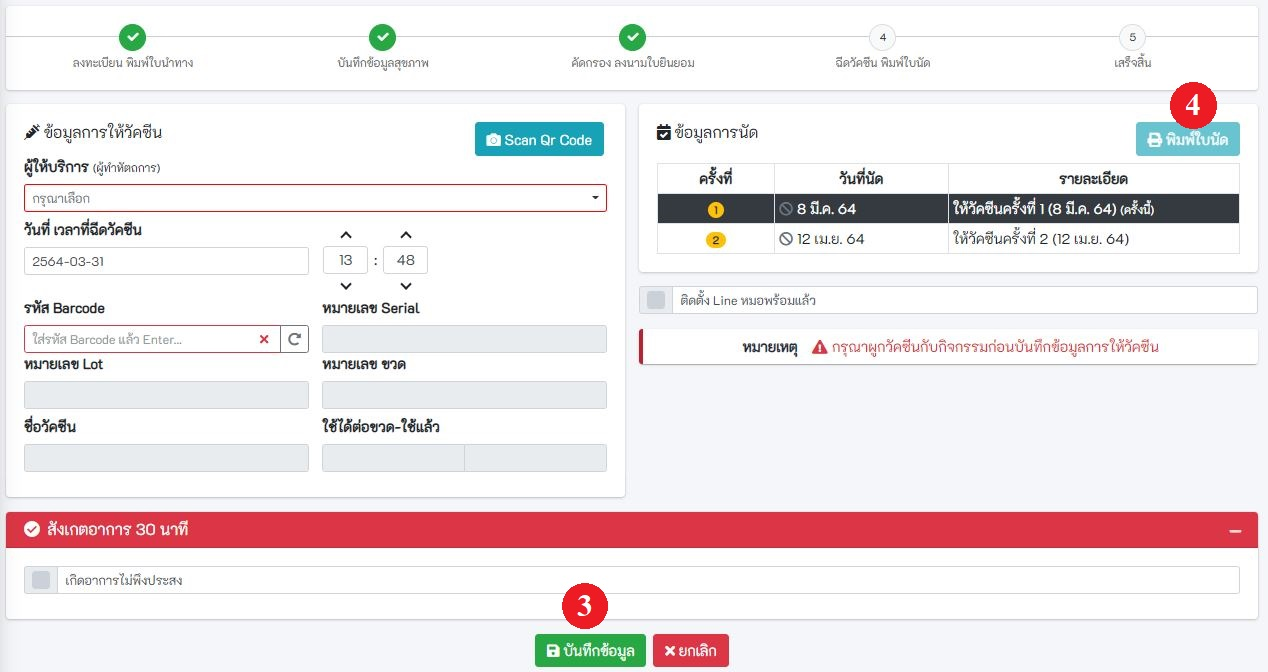
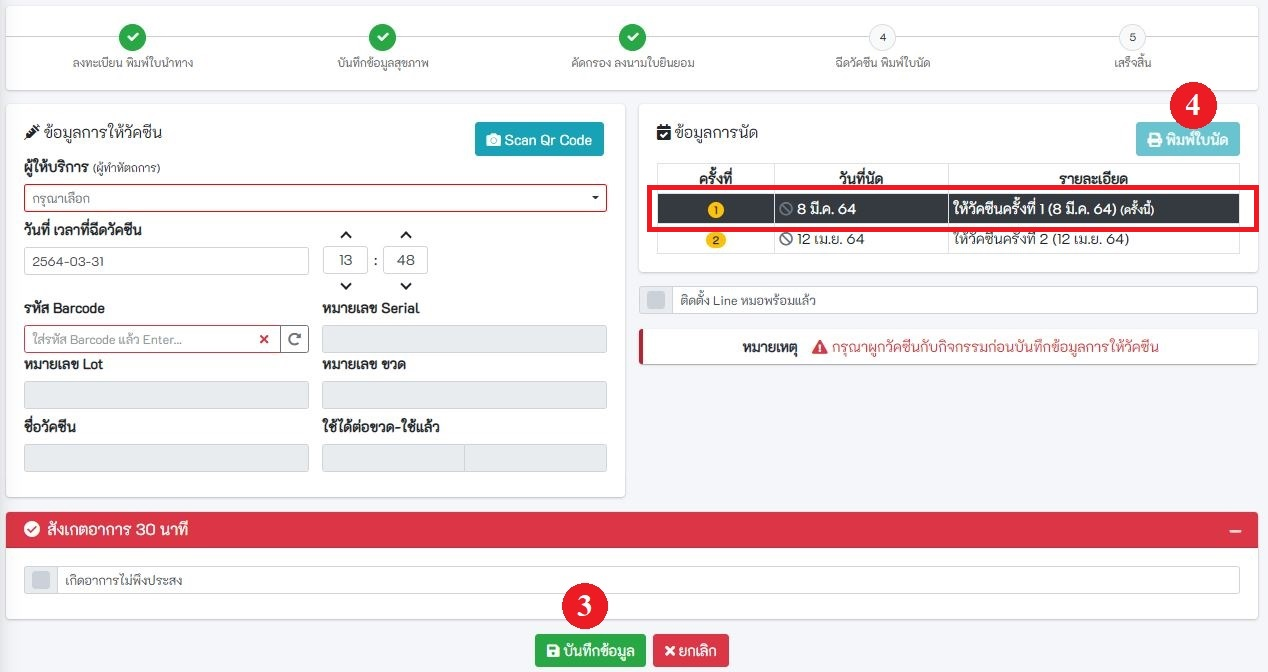
edit document by natanon

Changed region(s): [[0.4921, 0.25, 1.0, 0.3438]]

diff --git a/docs/user/prepare-work.md b/docs/user/prepare-work.md
@@ -7,7 +7,7 @@ title: 5. เตรียมปฏิบัติงาน
 
 
 ## 5.1 แผนปฏิบัติงาน
-![](./img/plan-menu.png)</br>
+![](./img/plan-menu.png)
 
 แผนปฏิบัติงาน คือ แผนให้บริการผู้รับการฉีดวัคซีน ที่ต้องสร้างก่อนออกปฏิบัติงาน 
 จุดประสงค์หลักเพื่อ ออกใบนัดรับวัคซีนครั้งต่อไป(ในแผนจะให้กำหนดวันรับวัคซีนครั้งที่ 2 กรณีต้องฉีด 2 เข็ม)และ ใช้ตรวจสอบว่าผู้รับวัคซีนได้รับวัคซีนครบตามแผนหรือไม่( เช่นsinovacต้องรับ 2 เข็ม
@@ -55,7 +55,7 @@ title: 5. เตรียมปฏิบัติงาน
 ### 5.2.2 กรณีเพิ่มผู้ใช้งานจากโรงพยาบาล/สถานพยาบาลอื่น
 - ระบุเงื่อนไขในการค้นหา เช่น เลขบัตรประจำตัวประชาชน รหัสสถานพยาบาล ขื่อ นามสกุล หลังจากนั้นกดปุ่ม **ค้นหา**
 - คลิกที่ checkbox เพื่อเลือกผู้ปฏิบัติงาน หลังจากนั้นกดปุ่ม บันทึก
-
+</br>
 ![](./img/user-plan-4-difference-hoscode.png)
 
 ## 5.3 เมนูเพิ่มข้อมูลวัคซีน
@@ -63,47 +63,44 @@ title: 5. เตรียมปฏิบัติงาน
 ![](./img/add-vaccine-1.png)
 
 - **การค้นหาข้อมูลวัคซีน** 
-  - **ระบุเงื่อนไขที่ต้องการค้นหา** เช่น ชื่อวัคซีน Serial No. Lot No. จากนั้นคลิกที่ปุ่ม ค้นหา 
+  -**ระบุเงื่อนไขที่ต้องการค้นหา** เช่น ชื่อวัคซีน Serial No. Lot No. จากนั้นคลิกที่ปุ่ม ค้นหา 
 
 - **เพิ่มข้อมูลวัคซีนรายขวด** ตามวงกลมแดงหมายเลข 2
   ![](./img/add-vaccine-1_2.png)
-  - **ระบุข้อมูลให้ถูกต้อง และครบถ้วน โดยเฉพาะช่องสีแดง**   
-  - **หรือ กดปุ่ม Scan** ตามวงกลมแดงหมายเลข 5 เพื่อทำการสแกน QR Code , Barcode , Data Matrix ที่ระบุข้างกล่อง ระบบจะทำการอ่านข้อมูล และเติมลงในช่องต่าง ๆ
-  - ตรวจสอบจำนวนการใช้ต่อ 1 ขวด ให้ถูกต้อง ตามวงกลมแดงหมายเลข 3 เพื่อให้ระบบทราบว่าวัคซีน 1 รหัสใช้ได้กี่ครั้ง
-  - **เมื่อเสร็จแล้ว กดปุ่ม บันทึก** ตามวงกลมแดงหมายเลข 4
+  -**ระบุข้อมูลให้ถูกต้อง และครบถ้วน โดยเฉพาะช่องสีแดง**</Br>   
+  -**หรือ กดปุ่ม Scan** ตามวงกลมแดงหมายเลข 5 เพื่อทำการสแกน QR Code , Barcode , Data Matrix ที่ระบุข้างกล่อง ระบบจะทำการอ่านข้อมูล และเติมลงในช่องต่าง ๆ</Br></Br>
+  -ตรวจสอบจำนวนการใช้ต่อ 1 ขวด ให้ถูกต้อง ตามวงกลมแดงหมายเลข 3 เพื่อให้ระบบทราบว่าวัคซีน 1 รหัสใช้ได้กี่ครั้ง</Br></Br>
+  -**เมื่อเสร็จแล้ว กดปุ่ม บันทึก** ตามวงกลมแดงหมายเลข 4</Br>
   ![](./img/add-vaccine-1_3.jpg)
   </Br></Br>
 
 - **เพิ่มข้อมูลวัคซีนรายกล่อง** ตามรูปหมายเลข 1
   ![](./img/add-vaccine-2_1.png)
-  - **ระบุข้อมูลให้ถูกต้อง และครบถ้วน โดยเฉพาะช่องสีแดง** 
-  - **หรือ กดปุ่ม Scan** ตามวงกลมแดงหมายเลข 2 เพื่อทำการสแกน QR Code , Barcode , Data Matrix ที่ระบุข้างกล่อง ระบบจะทำการอ่านข้อมูล และเติมลงในช่องต่าง ๆ 
-  - ระบบจะนำ จำนวนขวดต่อกล่อง ไปคำนวณสร้างรหัสให้เอง เช่น 10 ขวดต่อกล่อง ระบบจะสร้างรหัสวัคซีน ให้ 10 รหัส
-  - ตรวจสอบจำนวนการใช้ต่อ 1 ขวด ให้ถูกต้อง ตามวงกลมแดงหมายเลข 3 เพื่อให้ระบบทราบว่าวัคซีน 1 รหัสใช้ได้กี่ครั้ง
-  - **เมื่อเสร็จแล้ว กดปุ่ม บันทึก** ตามวงกลมแดงหมายเลข 4
+  -**ระบุข้อมูลให้ถูกต้อง และครบถ้วน โดยเฉพาะช่องสีแดง** 
+  -**หรือ กดปุ่ม Scan** ตามวงกลมแดงหมายเลข 2 เพื่อทำการสแกน QR Code , Barcode , Data Matrix ที่ระบุข้างกล่อง ระบบจะทำการอ่านข้อมูล และเติมลงในช่องต่าง ๆ </Br></Br> 
+  -ระบบจะนำ จำนวนขวดต่อกล่อง ไปคำนวณสร้างรหัสให้เอง เช่น 10 ขวดต่อกล่อง ระบบจะสร้างรหัสวัคซีน ให้ 10 รหัส </Br></Br>
+  -ตรวจสอบจำนวนการใช้ต่อ 1 ขวด ให้ถูกต้อง ตามวงกลมแดงหมายเลข 3 เพื่อให้ระบบทราบว่าวัคซีน 1 </Br></Br>รหัสใช้ได้กี่ครั้ง
+  -**เมื่อเสร็จแล้ว กดปุ่ม บันทึก** ตามวงกลมแดงหมายเลข 4</Br>
   ![](./img/add-vaccine-2_2.jpg)
   </Br></Br>
 
 - **การแก้ไขข้อมูลวัคซีนที่ฉีดไปแล้ว** </Br>
-การแก้ไขวัคซีนที่ฉีดไปแล้ว มีความเสี่ยงผิดพลาดจากขั้นตอน ลบข้อมูลออกจากระบบ MOPH IC ให้ดำเนินการด้วยความระมัดระวังและการแก้ไขอาจกระทบกับระบบหมอพร้อมของผู้รับวัคซีนรายนั้นได้ เนื่องจากเป็นการลบข้อมูล แล้วส่งไปยังระบบ MOPH IC ใหม่ </Br>
-ก่อนจะแก้ไขได้ต้องทราบว่า barcode ของวัคซีนที่จะแก้ไขนั้น ฉีดให้ใคร และต้องดำเนินการโดยเจ้าหน้าที่ ที่บันทึกผู้รับวัคซีนรายนั้นเท่านั้น เพราะผู้อื่นไม่สามารถกดลบตามขั้นตอนที่ 3 ได้ เมื่อทราบแล้วให้ดำเนินการตามขั้นตอนดังนี้
+การแก้ไขวัคซีนที่ฉีดไปแล้ว แล้วมีข้อมูลวัคซีนผิดพลาดเล็กน้อยเช่น พิมพ์ serial หรือ Lot ผิด พิมพ์ตกไป1ตัวอักษร เป็นต้น การแก้ไขมีความเสี่ยงผิดพลาดจากขั้นตอน ลบข้อมูลออกจากระบบ MOPH IC ให้ตรวจสอบข้อมูลให้ถูกต้อง และการแก้ไขอาจกระทบกับระบบหมอพร้อมของผู้รับวัคซีนรายนั้นได้</Br>
+ก่อนจะแก้ไขได้ต้องทราบว่า barcode ของวัคซีนที่จะแก้ไขนั้น ฉีดให้ใคร และต้องดำเนินการโดยเจ้าหน้าที่ ที่บันทึกผู้รับวัคซีนรายนั้นเท่านั้น เพราะผู้อื่นไม่สามารถกดลบตามขั้นตอนที่ 2 ได้ เมื่อทราบแล้วให้ดำเนินการตามขั้นตอนดังนี้
 จากรูปตัวอย่าง ต้องการแก้ วัคซีน barcode 0000000066 สังเกตุว่าจะขึ้นสถานะใช้งานแล้ว
   ![](./img/editvaccine01.jpg)</Br></Br>
--ขั้นตอนที่ 1 ลบข้อมูลการฉีดด้วยวัคซีนที่ต้องการแก้ไขออกจากระบบ [MOPH Immunization Center Dashboard](https://cvp1.moph.go.th/dashboard/)(MOPH IC) จากนั้นเข้าเมนูออกปฏิบัติงาน->รายการลงทะเบียน ค้นหาผู้รับวัคซีนที่ได้รับวัคซีนที่ต้องการแก้ไข </Br></Br>
--ขั้นตอนที่ 2 กดรูปดวงตาตามวงกลมแดงหมายเลข 1 เพื่อตรวจสอบว่าข้อมูลลบออกจาก MOPH IC หรือยัง 
-  ![](./img/editvaccine02.jpg)</Br></Br>
-
-  หากเป็นการฉีดครั้งแรก ข้อมูลต้องขึ้นตามรูปตัวอย่าง แสดงว่าลบข้อมูลออกจาก MOPH IC แล้ว 
-  ![](./img/editvaccine03.jpg)</Br></Br>
-  -ขั้นตอนที่ 3 กดปุ่มลบ ตามวงกลมแดงหมายเลข 2
+  -ขั้นตอนที่ 1 เข้าเมนูออกปฏิบัติงาน->รายการลงทะเบียน ค้นหาผู้รับวัคซีนที่ได้รับวัคซีนที่ต้องการแก้ไข </Br></Br>
+  -ขั้นตอนที่ 2 กดปุ่มลบ ตามวงกลมแดงหมายเลข 2
   ![](./img/editvaccine04.jpg)</Br></Br>
-  -ขั้นตอนที่ 4 กดปุ่มใช่ เพื่อยีนยันการลบ
+  -ขั้นตอนที่ 3 กดปุ่มใช่ เพื่อยีนยันการลบ
   ![](./img/editvaccine05.jpg)</Br></Br>
-  -ขั้นตอนที่ 5 เลือกเมนู เตรียมปฏิบัติงาน->เพิ่มข้อมูลวัคซีน จะพบว่า วัคซีน Barcode 0000000066 สามารถแก้ไขได้แล้ว ให้กดแก้ไขได้เลย
+  -ขั้นตอนที่ 4 เลือกเมนู เตรียมปฏิบัติงาน->เพิ่มข้อมูลวัคซีน จะพบว่า วัคซีน Barcode 0000000066 สามารถแก้ไขได้แล้ว ให้กดแก้ไขได้เลย
   ![](./img/editvaccine06.jpg)</Br></Br>
+  -ขั้นตอนที่ 5 บันทึกข้อมูลการให้วัคซีนอีกครั้งตั้งแต่ ลงทะเบียน จนถึงอนุญาตให้กลับบ้านได้</Br></Br>
+  -ขั้นตอนที่ 6 ลบข้อมูลการฉีดด้วยวัคซีนที่ไม่ถูกต้องออกจากระบบ [MOPH Immunization Center Dashboard](https://cvp1.moph.go.th/dashboard/)(MOPH IC) ให้เหลือแต่ข้อมูลที่ถูกต้อง
 
 ## 5.4 ผูกวัคซีนกับกิจกรรม
-
+ผูกวัคซีนกับกิจกรรม หน่วยงานต้องนำวัคซีนจากการเพิ่มข้อมูลวัคซีน มา ผูกกับกิจกรรมการให้วัคซีนก่อน เพื่อให้สามารถบันทึกการให้วัคซีนได้ หากไม่ได้ผูกวัคซีนกับกิจกรรมการให้วัคซีนนั้น เมื่อนำไปบันทึกการให้วัคซีน จะขึ้นแจ้งว่า "ผิดพลาด ไม่พบวัคซีนรหัสนี้" การผูกวัคซีน เปรียบเหมือนการเบิกวัคซีนจากคลังมาเพื่อบันทึก ดังนั้นหากวัคซีนใดไม่ได้ใช้ต้องลบออกจากการผูกด้วย
 
 ![](./img/vaccine-join-1.png)
 - **เปลี่ยนกิจกรรม** ตามรูปหมายเลข 1 หากไม่ใช่กิจกรรมที่ต้องการผูกกับวัคซีน
@@ -120,11 +117,11 @@ title: 5. เตรียมปฏิบัติงาน
 
 - แสดงวัคซีนที่เลือก หลังจากนั้นกดปุ่ม **บันทึก** ตามรูปหมายเลข 6
   ![](./img/vaccine-activity6.png)
-- **การลบการผูกวัคซีน** ให้กดปุ่ม "ลบ" ในกรอบตามวงกลมแดงหมายเลข 7 หลังจากนั้นกดปุ่ม **บันทึก** วงกลมแดงหมายเลข 6 วัคซีนที่ลบจากการผูกจะสามารถนำไปผูกกับเข็มของแผนอื่นได้
+- **การลบการผูกวัคซีน** ให้กดปุ่ม "ลบ" ในกรอบตามวงกลมแดงหมายเลข 7 ข้อควรระวัง ให้สังเกตุกรอบสีแดง การลบการผูกวัคซีนต้องอยู่ในหัวข้อนี้ หลังจากนั้นกดปุ่ม **บันทึก** วงกลมแดงหมายเลข 6 วัคซีนที่ลบจากการผูกจะสามารถนำไปผูกกับเข็มของแผนอื่นได้
 
 ## 5.5 พิมพ์ QR Code วัคซีน
-
-
+- เป็นการพิมพ์รหัสวัคซีน ที่ได้ผูกไว้กับกิจกรรมการให้วัคซีน( เข็ม1 หรือ 2) ให้ออกมาเป็น Barcode เพื่อสะดวกในการใช้งาน ให้หน่วยงานบริหารจัดการเอง เรื่องจะติดไว้ที่ใดบ้าง เพื่อให้สะดวกต่อการทำงาน
+ 
 ![](./img/qrcode-1.png)
 ![](./img/qrcode-2.png)
 ![](./img/qrcode-3.png)

diff --git a/docs/user/working.md b/docs/user/working.md
@@ -26,8 +26,13 @@ title: 6. ออกปฏิบัติงาน
   - เมื่อกดปุ่มบันทึก หน้าจอจะแสดงปุ่ม **พิมพ์ใบลงทะเบียน ให้กดปุ่มพิมพ์ใบลงทะเบียน** เพื่อปริ้นใบลงทะเบียนให้กับผู้รับบริการ
   ![](./img/regis02.jpg)
 
+  
+
 ## 6.2 รายการลงทะเบียน
-![](./img/register-list-1.png)
+รายการลงทะเบียน เป็นเมนู แสดงจำนวนผู้ลงทะเบียนในกิจกรรมนั้น และแสดงว่าผู้รับวัคซีนดำเนินการถึงขั้นตอนใด หากเป็น user ที่บันทึกผู้รับการฉีดรายนั้นจะสามารถ ลบ(รูปถังขยะ) ตามวงกลมแดงหมายเลข 1 และ แก้ไขข้อมูลผู้รับการฉีด(รูปปากกา) ตามวงกลมแดงหมายเลข 2  หากไม่มีเครื่องหมาย ลบ และแก้ไข แสดงว่าuser อื่นเป็นผู้บันทึก ให้นำเม้าไปวางบริเวณนั้น จะเห็นชื่อผู้บันทึก
+
+<b>กรณีขึ้นแทบสีแดงทั้งหมด แต่บันทึกผู้รับวัคซีนรายนั้นเสร็จสิ้นไปแล้ว</b> ให้ค้นหา จากเลขบัตรประชาชนคนนั้น ในหน้ารายการลงทะเบียน ส่วนใหญ่จะพบว่ามี 2 รายการ รายการที่มีเครื่องหมายถูกเขียวทั้งหมด และรายการที่ 2 กากบาทแดงทั้งหมดหรือบางส่วน ให้ลบ รายการที่ขึ้นกากบาทแดงออก เหลือแต่รายการที่บันทึกเสร็จสิ้นแล้ว
+![](./img/register-list-1.jpg)
 
 ## 6.3 คัดกรองก่อนให้วัคซีน 
 
@@ -44,19 +49,35 @@ title: 6. ออกปฏิบัติงาน
 ![](./img/concense-form-1.png)
 
 ## 6.4 การให้วัคซีน
+การให้วัคซีน เข็ม 1 และ 2 นั้น ขั้นตอนดำเนินการ ให้ดู[หัวข้อ 1.1 ขั้นตอนการใช้งาน](login.md) ตามคู่มือนี้ 
+หัวข้อ 6.4 นี้ อธิบายความแตกต่าง ของเมนูการให้วัคซีน ของเข็ม 1 และ 2 ของโปรแกรมเท่านั้น ไม่ใช่ขั้นตอนทั้งหมด หากระหว่างบันทึก Barcode ปรากฏข้อความ <b>"ผิดพลาด ไม่พบวัคซีนรหัสนี้"</b>แสดงว่าไม่ได้ผูกวัคซีนกับกิจกรรมให้ทำการผูกก่อน กรุณาดู [หัวข้อ 5.4 ผูกวัคซีนกับกิจกรรม](prepare-work.md#_5-4-ผูกวัคซีนกับกิจกรรม)
 
-### 6.4.1 ค้นหา
-- ค้นหาโดยกรอกเลขบัตรประจำตัวประชาชน หรือ
-- ใช้เครื่องอ่านบัตรประจำตัวประชาชนแบบ Smartcard คลิกที่ checkbox อ่านบัตร
+### 6.4.1 การให้วัคซีนเข็ม 1
+- 6.4.1.1 ค้นหา</Br>
+-ค้นหาโดยกรอกเลขบัตรประจำตัวประชาชน หรือ</Br>
+-ใช้เครื่องอ่านบัตรประจำตัวประชาชนแบบ Smartcard คลิกที่ checkbox อ่านบัตร</Br>
 
 ![](./img/vaccine-operation-1.png)
-### 6.4.2 กรอกข้อมูล
-- ระบุข้อมูลให้ถูกต้อง ครบถ้วน **โดยเฉพาะช่องสีแดง** หรือ กดปุ่ม Scan QR Code ระบบจะเติมข้อมูลที่ได้จาก QR Code ลงในช่องข้อมูล หลังจากนั้นกดปุ่ม **บันทึก**
+- 6.4.1.2 กรอกข้อมูล</Br>
+-ให้สังเกตุ ข้อมูลการนัด ตามกรอบสีแดงว่าอยู่ในครั้งที่ 1 จากนั้นระบุข้อมูลให้ถูกต้อง ครบถ้วน </Br>**โดยเฉพาะช่องสีแดง** หรือ กดปุ่ม Scan QR Code ระบบจะเติมข้อมูลที่ได้จาก QR Code ลงในช่องข้อมูล หลังจากนั้นกดปุ่ม **บันทึก**</Br>
 
 ![](./img/vaccine-operation-2.jpg)
 
-### 6.4.3 พิมพ์ใบนัด
+- 6.4.1.3 พิมพ์ใบนัด
 ![](./img/vaccine-appointment-1.png)
+
+### 6.4.2 การให้วัคซีนเข็ม 2
+- 6.4.2.1 ค้นหา</Br>
+-ค้นหาโดยกรอกเลขบัตรประจำตัวประชาชน หรือ</Br>
+-ใช้เครื่องอ่านบัตรประจำตัวประชาชนแบบ Smartcard คลิกที่ checkbox อ่านบัตร</Br>
+
+![](./img/vaccine-operation-1.png)
+- 6.4.2.2 กรอกข้อมูล</Br>
+-ให้สังเกตุ ตามกรอบสีแดงวงกลมหมายเลข 3 ว่าอยู่ในครั้งที่ 2 และมีเครื่องหมายถูกสีเขียวหน้าครั้งที่ 1 หรือไม่ หากไม่ใช่ แสดงว่า คนนี้มาไม่ตรงนัด [กรุณาดูหัวข้อ 1.1 ขั้นตอนการใช้งาน เรื่องการให้วัคซีน เข็ม 2 กรณีมาไม่ตรงวันนัด](login.md) หากมีเครื่องหมายถูกหน้าครั้งที่ 1 แล้ว ให้ระบุข้อมูลการให้วัคซีนให้ถูกต้อง ครบถ้วน **โดยเฉพาะช่องสีแดง** หรือ กดปุ่ม Scan QR Code ระบบจะเติมข้อมูลที่ได้จาก QR Code ลงในช่องข้อมูล หลังจากนั้นกดปุ่ม **บันทึก** ตามวงกลมแดงหมายเลข 4</Br>
+
+![](./img/vaccine-operation-22.jpg)
+
+
 
 ## 6.5 จุดตรวจสอบก่อนกลับบ้าน
 - หลังจากฉีดแล้ว 30 นาที หากมีอาการไม่พึงประสงค์ ให้ติ๊กถูก ตามวงกลมหมายเลข 1 จากนั้น บันทึกข้อมูล ตามปุ่ม วงกลมแดงหมายเลข 2 หากไม่มีอาการให้กดปุ่ม วงกลมแดงหมายเลข 2 ได้เลย จากนั้น เลือกอนุญาติให้กลับบ้านได้ ตามวงกลมแดงหมาย 3 ปุ่มนี้จะส่งข้อมูลการให้วัคซีนครั้งนี้ ไปยังระบบ ( MOPH IC )  [MOPH Immunization Center Dashboard](https://cvp1.moph.go.th/dashboard/)
@@ -64,18 +85,26 @@ title: 6. ออกปฏิบัติงาน
 - หากบันทึกการให้วัคซีน 2 เข็มครบถ้วนแล้ว จะปรากฏ ปุ่มพิมพ์ใบรับรองการฉีดวัคซีน ตามวงกลมแดงหมาย 4
 หากไม่ปรากฏ ปุ่มพิมพ์ใบรับรองการฉีดวัคซีน ให้ตรวจสอบว่า ในกรอบวงกลมแดงหมายเลข 5 ขึ้นเครื่องหมายถูกสีเขียว ทั้ง 2 ครั้งหรือไม่ หากไม่ขึ้นตามรูปตัวอย่าง ให้ตรวจสอบว่าบันทึก เข็มที่ 2 ผิดแผนหรือไม่
 **เข็มที่ 1 และเข็มที่ 2 ที่บันทึกให้ผู้ฉีดต้องอยู่ในแผนเดียวกันเท่านั้น**
-![](./img/check-before-gohome-2.jpg)
+![](./img/check-before-gohome-2.jpg)</Br>
+
+รูปตัวอย่างใบรับรอง
+![](./img/certificate.jpg)</Br>
+
 
 ## 6.6 ติดตามอาการ
 ![](./img/follow-1.png)
 - บันทึกติดตามอาการหลังจากได้รับวัคซีน 7 วัน หรือ 30 วัน
 ![](./img/follow-2.png)
 
-## 6.6 ส่งข้อมูลเข้า IC
-- เป็นเมนูสำหรับ ส่งข้อมูลการการให้วัคซีนเข้าระบบ ( MOPH IC )  [MOPH Immunization Center Dashboard](https://cvp1.moph.go.th/dashboard/) เมื่อมีการแก้ไขการให้วัคซีน หรือต้องการ update ข้อมูลการให้วัคซีน โดยสามารถเลือกรายคน ในกรอบวงกลมแดงหมายเลข 1 
-<br>หรือเลือกหลายรายการในกรอบวงกลมแดงหมายเลข 2 แล้วกดปุ่ม ส่ง IC ทั้งหมดที่เลือก ตามวงกลมแดงหมายเลข 3
+## 6.7 ส่งข้อมูลเข้า IC
+- จะเห็นเฉพาะ admin หน่วยงาน เป็นเมนูสำหรับ ส่งข้อมูลการการให้วัคซีนเข้าระบบ ( MOPH IC )  [MOPH Immunization Center Dashboard](https://cvp1.moph.go.th/dashboard/) เมื่อมีการแก้ไขการให้วัคซีน หรือต้องการ update ข้อมูลการให้วัคซีน โดยสามารถเลือกรายคน ในกรอบวงกลมแดงหมายเลข 1 
+</br>หรือเลือกหลายรายการในกรอบวงกลมแดงหมายเลข 2 แล้วกดปุ่ม ส่ง IC ทั้งหมดที่เลือก ตามวงกลมแดงหมายเลข 3
 ![](./img/sendic.jpg)
 
-## 6.7 ดาวน์โหลดข้อมูล
+## 6.8 ประวัติการส่งข้อมูลเข้า IC
+- จะเห็นเฉพาะ admin หน่วยงาน เป็นประวัติการส่งข้อมูลเข้า Immunization Center จาก เมนู ส่งข้อมูลเข้า IC โดยมีสถานะแจ้งว่าสำเร็จหรือไม่ โดย <b>"0 หมายถึงไม่สำเร็จ"</b> และ <b>"1 หมายถึง ส่งสำเร็จ" </b>ดูได้ตามวงกลมแดงหมายเลข 1 </br>
+![](./img/sendichistory.jpg)
+
+## 6.9 ดาวน์โหลดข้อมูล
 - เลือกแผนปฏิบัติงาน และเลือกกิจกรรมของงานหรือ คลิกที่ checkbox ทั้งหมด หากต้องดาวน์โหลดข้อมูลผู้ที่ได้รับวัคซีนทั้งหมด
 ![](./img/download-data.png)

diff --git a/docs/user/login.md b/docs/user/login.md
@@ -1,9 +1,54 @@
 ---
-title: 1. เข้าสู่ระบบ
+title: 1. ขั้นตอนการใช้งานและการเข้าสู่ระบบ
 ---
 
-## 1.1. เข้าสู่ระบบ
+## 1.1. ขั้นตอนการใช้งาน
+1. หน่วยงานที่ยังไม่มี ผู้ดูแลระบบ(admin) สามารถติดต่อ <u><b>ขอเป็น admin</b></u> ได้ โดยดูตามหนังสือจากที่นี่
+[เอกสารการสมัครadmin และ แบบฟอร์มต่าง ๆ](https://co-vaccine.moph.go.th/th/downloads)</Br>
+2. ให้ admin หน่วยงาน  <u><b>เพิ่มผู้ใช้งานในหน่วยงาน</b></u>  โดยสามารถดูได้ที่ [หัวข้อ 3.2 การเพิ่มผู้ใช้งาน](admin-hosp-menu.md#_3-2-การเพิ่มผู้ใช้งาน)</Br>
+3. หน่วยงานต้อง  <u><b>สร้างแผนปฏิบัติงาน</b></u> เพื่อกำหนดวันนัดรับวัคซีน โดยดูได้ที่ [หัวข้อ 5.1 แผนปฏิบัติงาน](prepare-work.md#_5-1-แผนปฏิบัติงาน)</Br>
+4. เมื่อสร้างแผนปฏิบัติงานแล้ว admin จะต้อง <u><b>เพิ่มผู้ปฏิบัติงานในแผน</b></u> ไม่อย่างนั้น ผู้ใช้จะไม่เห็น แผน (ไม่มีให้เลือกตอน log in ) แนวคิดนี้นับรวม admin ด้วย  กรณี ไม่มีแผนให้เลือก ตอน log in ให้ admin ตรวจสอบว่า ผู้ใช้คนนั้นอยู่ในแผนปฏิบัติงานหรือไม่ โดยดูได้ที่ [หัวข้อ 5.2 เพิ่มผู้ปฏิบัติงานในแผนฯ](prepare-work.md#_5-2-เพิ่มผู้ปฏิบัติงานในแผนฯ)</Br>
+5. หน่วยงานต้อง  <u><b>เพิ่มวัคซีนข้อมูลวัคซีน</b></u> เพื่อเตรียมไปผูกกับกิจกรรมให้วัคซีน เมนูการเพิ่มวัคซีนนี้เปรียบเหมือนการนำวัคซีนเข้าคลัง เพื่อให้กิจกรรมการให้วัคซีนมาเบิกเพื่อนำไปบันทึกการฉีดได้ โดยดูได้ที่ [หัวข้อ 5.3 เมนูเพิ่มข้อมูลวัคซีน](prepare-work.md#_5-3-เมนูเพิ่มข้อมูลวัคซีน)</Br>
+</Br>
 
+- <b>การให้วัคซีนเข็ม 1</b> </Br>
+
+เมื่อหน่วยงานกำหนดวันรับวัคซีนเข็ม 1 แล้ว(การสร้างแผนปฏิบัติงานเป็นการกำหนดวันรับวัคซีน เข็ม 1 และเข็ม 2)  มีผู้ปฏิบัติงานแล้ว เพิ่มผู้ปฏิบัติงานในแผนแล้ว และเพิ่มข้อมูลวัคซีนแล้ว จะสามารถดำเนินการให้วัคซีนเข็ม 1  ได้ดังนี้
+
+1. สิ่งที่สามารถทำได้ก่อนวันให้วัคซีนจริง (ทำล่วงหน้า)</Br>
+1.1 <u><b>ผูกวัคซีนกับกิจกรรม</b></u> หน่วยงานต้องนำวัคซีนจากการเพิ่มข้อมูลวัคซีน มา ผูกกับกิจกรรมการให้วัคซีนก่อน ที่ เมนูผูกวัคซีนกับกิจกรรม เพื่อให้สามารถบันทึกการให้วัคซีนได้ หากไม่ได้ผูกวัคซีนกับกิจกรรมการให้วัคซีนนั้น เมื่อนำไปบันทึกการให้วัคซีน จะขึ้นแจ้งว่า <b>"ผิดพลาด ไม่พบวัคซีนรหัสนี้"</b> การผูกวัคซีน เปรียบเหมือนการเบิกวัคซีนจากคลังมาเพื่อบันทึก ดังนั้นหากวัคซีนใดไม่ได้ใช้ต้องลบออกจากการผูกด้วย
+โดยดูได้ที่ [หัวข้อ 5.4 ผูกวัคซีนกับกิจกรรม](prepare-work.md#_5-4-ผูกวัคซีนกับกิจกรรม)</Br>
+1.2 <u><b>พิมพ์ QR Code วัคซีน</b></u> คือ การพิมพ์รหัสวัคซ๊น ที่ได้ผูกไว้กับกิจกรรมการให้วัคซีนเข็ม 1 ให้ออกมาเป็น Barcode เพื่อสะดวกในการใช้งาน ให้หน่วยงานบริหารจัดการเอง เรื่องจะติดไว้ที่ใดบ้าง เพื่อให้สะดวกต่อการทำงาน
+โดยดูได้ที่ [หัวข้อ 5.5 พิมพ์ QR Code วัคซีน](prepare-work.md#_5-5-พิมพ์-qr-code-วัคซีน)</Br>
+
+2. สิ่งที่ทำ วันให้วัคซีนจริง </Br>
+2.1 ผู้ใช้งาน log in โดยเลือกแผนและกิจกรรมการให้วัคซีนเข็ม 1 โดยดูได้ที่ [หัวข้อ 1.2 การเข้าสู่ระบบ Log in](login.md#_1-2-การเข้าสู่ระบบ-log-in)</Br>
+2.2 ลงทะเบียนผู้รับวัคซีน หากรู้ข้อมูลผู้รับการฉีดแล้ว สามารถทำล่วงหน้าได้ โดยดูได้ที่  [หัวข้อ 6.1 ลงทะเบียนผู้รับวัคซีน](working.md#_6-1-ลงทะเบียนผู้รับวัคซีน)</Br>
+2.3 คัดกรองก่อนให้วัคซีน โดยดูได้ที่ [หัวข้อ 6.3 คัดกรองก่อนให้วัคซีน](working.md#_6-3-คัดกรองก่อนให้วัคซีน)</Br>
+2.4 การให้วัคซีน โดยดูได้ที่ [หัวข้อ 6.4 การให้วัคซีน](working.md#_6-4-การให้วัคซีน)</Br>
+2.5 จุดตรวจสอบก่อนกลับบ้าน โดยดูได้ที่ [หัวข้อ 6.5 จุดตรวจสอบก่อนกลับบ้าน](working.md#_6-5-จุดตรวจสอบก่อนกลับบ้าน)</Br>
+
+- <b>การให้วัคซีนเข็ม 2</b> </Br>
+ให้ทำเหมือน เข็ม 1 เริ่มตั้งแต่ ผูกวัคซีนกับกิจกรรม จนถึง จุดตรวจสอบก่อนกลับบ้าน ต่างกันแค่ ให้ Log in เข้าแผน และเลือกกิจกรรมเข็ม 2
+
+
+- <b>การให้วัคซีน เข็ม 2 กรณีมาไม่ตรงวันนัด </b></Br>
+ตัวอย่างนัดวันที่ 31 มีนาคม(เข็ม 2) ในแผน กลุ่มบุคลากร วันที่ 11 - 31 มี.ค. Sinovac แต่มาจริงวันที่ 3 เมษายน หน่วยงานกำลังปฏิบัติงานในแผนวันที่ 3 เมษายน เข็ม 2 ตามวงกลมแดงหมายเลข 1 ให้ไปเมนูผูกวัคซีนกับกิจกรรม ตามวงกลมแดงหมายเลข 2 และวัคซีนที่จะฉีดให้คนนี้คือรหัสBarcode 0000000090 ตามวงกลมแดงหมายเลข 3 ได้ผูกกับเข็มนี้แล้ว ให้ดำเนินการ</Br> 
+
+1.ลบวัคซีนที่จะฉีดให้คนนี้ ออกจากการผูกกับเข็มปัจจุบัน(เมนูผูกวัคซีนกับกิจกรรม) โดยกดลบ ตามวงกลมแดงหมายเลข 4 จากนั้นกดบันทึกตามวงกลมแดงหมายเลข 5 </Br> 
+![](./img/missappointment1.jpg)![](./img/missappointment2.jpg)</Br> </Br> 
+
+2.เข้ากิจกรรมเข็ม 2 ในแผนที่มีเข็ม 1 อยู่ (ตามตัวอย่างคือ เข็ม 2 ของแผน กลุ่มบุคลากร วันที่ 11 - 31 มี.ค. Sinovac)</Br>
+![](./img/missappointment3.jpg)</Br> 
+![](./img/missappointment4.jpg)</Br></Br> 
+3.เข้าเมนูผูกวัคซีน หาวัคซีนนี้ แล้วกดเพิ่ม จะเห็นว่าวัคซีนถูกเพิ่มแล้วตามกรอบสีแดง ให้กดบันทึก ตามวงกลมแดงหมายเลข 11</Br>
+![](./img/missappointment5.jpg)</Br>
+![](./img/missappointment6.jpg)</Br></Br> 
+4.เข้าเมนูออกปฏิบัติงาน ทำตั้งแต่ลงทะเบียน จน ถึงจุดตรวจสอบก่อนกลับบ้าน</Br>
+![](./img/missappointment7.jpg)</Br></Br>
+5.สลับกิจกรรมที่ให้บริการให้เป็นแผนปัจจุบัน เพื่อบันทึกการฉีดวัคซีนผู้รับวัคซีนรายอื่นต่อไป </Br></Br>
+
+## 1.2. การเข้าสู่ระบบ Log in 
 - เข้าสู่ระบบ https://co-vaccine.moph.go.th
 1. กรอกเลขบัตรประจำตัวประชาชน
 2. คลิก! ตรวจสอบ
@@ -17,6 +62,6 @@ title: 1. เข้าสู่ระบบ
 ![](./img/searchlogin01.jpg)
 ![](./img/searchlogin02.jpg)
 
-## 1.2. กรณีลืมรหัสผ่าน
-กรณีลืมรหัสผ่าน ให้กดปุ่ม ![](./img/user-forgetpassword_1.png) และ**กรอกข้อมูลให้ครบ**ตามแบบฟอร์มที่กำหนด หลังจากนั้น  กดปุ่ม **กำหนดรหัสผ่าน**
+## 1.3. กรณีลืมรหัสผ่าน
+กรณีลืมรหัสผ่าน ให้กดปุ่ม ![](./img/user-forgetpassword_1.png) และ**กรอกข้อมูลให้ครบ**ตามแบบฟอร์มที่กำหนด หลังจากนั้น  กดปุ่ม **กำหนดรหัสผ่าน** 
 ![](./img/user-forgetpassword_2.png)

diff --git a/docs/README.md b/docs/README.md
@@ -1,6 +1,6 @@
 ## คู่มือการใช้งาน Co-Vaccine
 
-1. [ภาพรวมขั้นตอนการให้บริการ](https://ict.moph.go.th/upload_file/files/c2ee124ca87ed0f4a23bab985ba16246.pdf)
+1. [ภาพรวมขั้นตอนการให้บริการ](https://ict.moph.go.th/upload_file/files/c2ee124ca87ed0f4a23bab985ba16246.pdf) ไม่มีคำอธิบายเป็นเพียงภาพให้เห็นระบบโดยรวมเท่านั้น หากท่านต้องการข้อมูลที่มีเนื้อหาให้ดูหัวข้อที่ 2
 1. [คู่มือการใช้งาน](../user/login.md)
 1. [ถาม-ตอบ ระบบ Co-Vaccine](https://docs.google.com/document/u/0/d/1_6qTG-n3PZt_2mOQiUma_ov1snj_FXaucPHIR5lma4A/mobilebasic)
 1. [ช่องทางติดต่อสื่อสาร](../user/login.md)
